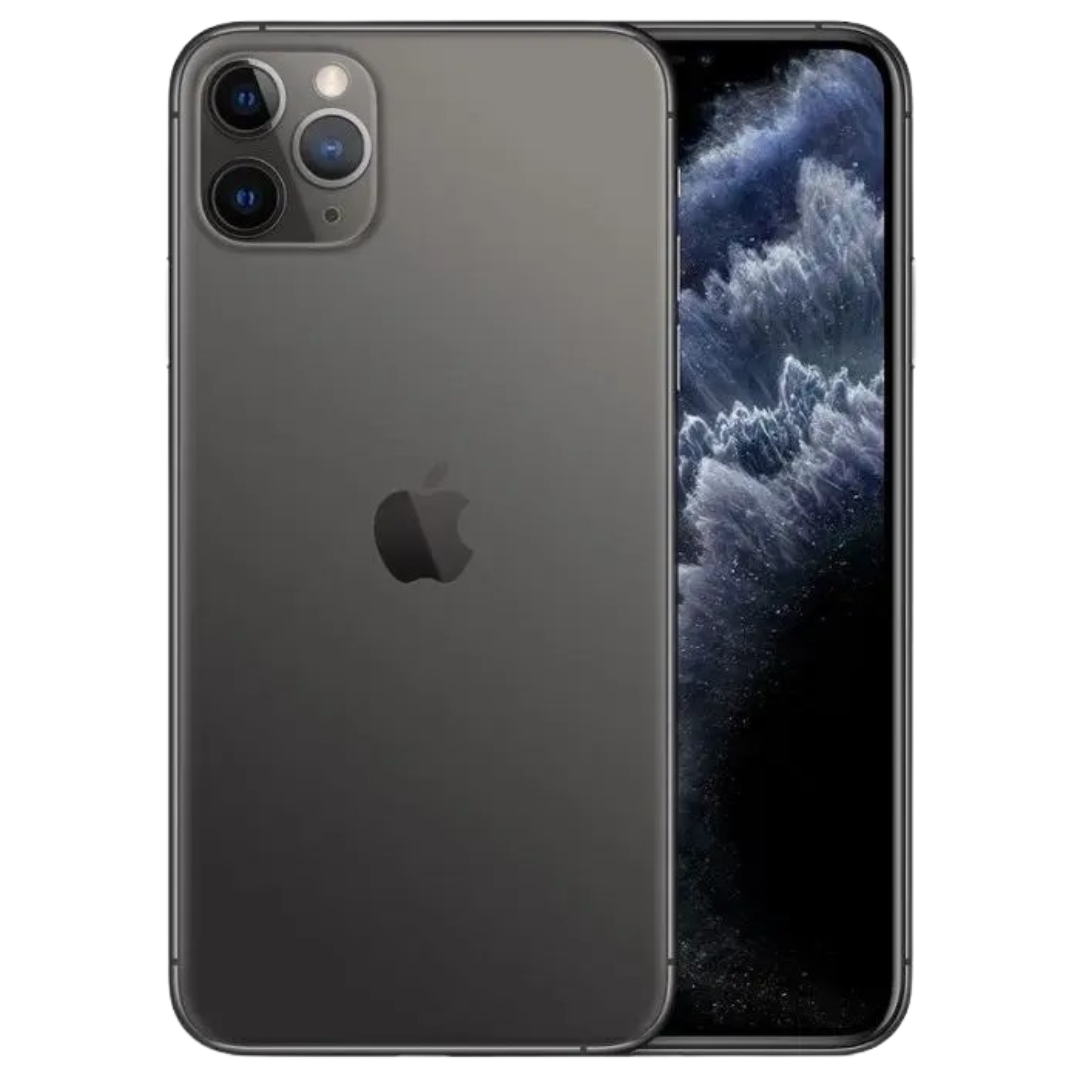
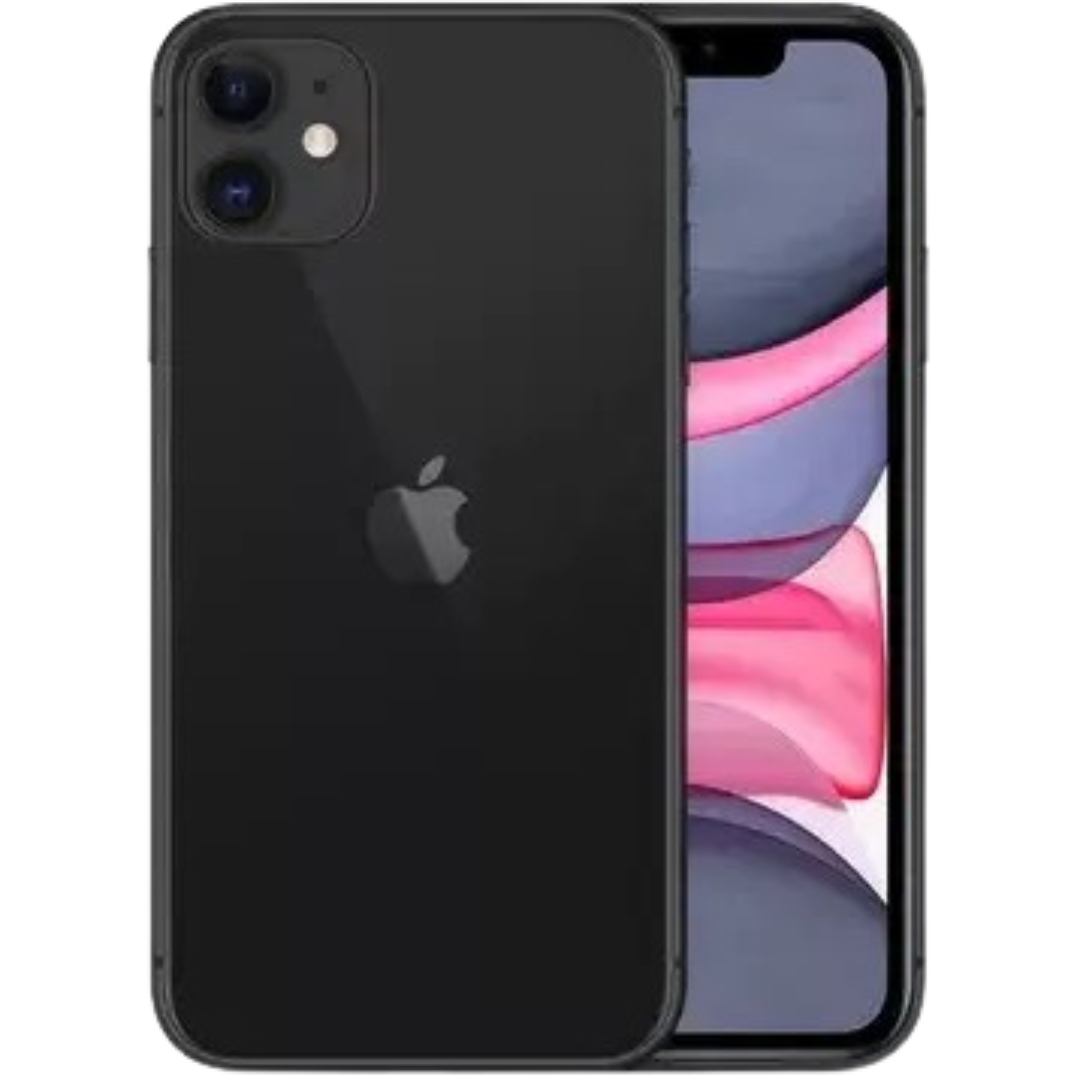
update code

diff --git a/src/Component/PageIPhone16/PriceList/PriceList.tsx b/src/Component/PageIPhone16/PriceList/PriceList.tsx
@@ -1,9 +1,10 @@
 import React from "react";
 import ProductCard from "../../CardPriceList/CardPriceList";
 import iphone15 from "../../../assets/images/iphone_15.png";
-import iphone14 from "../../../assets/images/iphone_14.png";
+import iphone14Pro from "../../../assets/images/iphone_14Pro.png";
 import iphone13 from "../../../assets/images/iphone_13.png";
 import iphone12 from "../../../assets/images/iphone_12.png";
+import iphone11Pro from "../../../assets/images/iphone_11Pro.png";
 import iphone11 from "../../../assets/images/iphone_11.png";
 import iphoneX from "../../../assets/images/iphone_XS.png";
 import styles from "@/style/PriceList.module.css";
@@ -19,7 +20,12 @@ const products = [
   {
     productName: "iPhone 14 Pro Max",
     price: "22.800.000",
-    imageUrl: iphone14,
+    imageUrl: iphone14Pro,
+  },
+  {
+    productName: "iPhone 14",
+    price: "14.000.000",
+    imageUrl: iphone14Pro,
   },
   {
     productName: "iPhone 13 Pro Max",
@@ -34,6 +40,11 @@ const products = [
   {
     productName: "iPhone 11 Pro Max",
     price: "10.000.000",
+    imageUrl: iphone11Pro,
+  },
+  {
+    productName: "iPhone 11",
+    price: "7.900.000",
     imageUrl: iphone11,
   },
   {
@@ -41,18 +52,6 @@ const products = [
     price: "7.300.000",
     imageUrl: iphoneX,
   },
-  {
-    productName: "iPhone XS",
-    price: "5.700.000",
-    imageUrl: iphone15,
-  },
-  {
-    productName: "iPhone XR",
-    price: "4.500.000",
-    imageUrl: iphone15,
-  },
-
-  // Add more products as needed
 ];
 
 const PriceList: React.FC = () => {

diff --git a/src/Component/PageIPhone16/FromInfo/form.main.tsx b/src/Component/PageIPhone16/FromInfo/form.main.tsx
@@ -12,6 +12,7 @@ import {
 } from "@mui/material";
 import Image from "next/image";
 import { Tooltip } from "antd";
+import { message } from "antd";
 // interface Product {
 //   name:{
 //     name: string;
@@ -435,7 +436,7 @@ export default function FormMain() {
       } else {
         console.error("Failed to submit full data");
       }
-
+      message.success("Đăng ký thành công");
       // Gửi dữ liệu name và phone tới Google Sheet 2
       const response2 = await fetch(
         "https://script.google.com/macros/s/AKfycbyY8sv7T4Lqrn719epFwCKHUFRF1bQSn7802DZzFSmX00zqcMumv3Ge-zb2oGja3QQ_/exec",
@@ -451,6 +452,7 @@ export default function FormMain() {
 
       if (response2.ok) {
         const result2 = await response2.json();
+
         console.log("Response from Google Sheet 2:", result2);
       } else {
         console.error("Failed to submit name and phone");

diff --git a/src/Component/CardPriceList/CardPriceList.tsx b/src/Component/CardPriceList/CardPriceList.tsx
@@ -2,6 +2,7 @@ import React from "react";
 import style from "@/style/ProductCard.module.css";
 import Image from "next/image";
 import { StaticImageData } from "next/image";
+
 interface ProductCardProps {
   productName: string;
   price: string;
@@ -17,7 +18,12 @@ const ProductCard: React.FC<ProductCardProps> = ({
     <div className={style.cardContainer}>
       <Image src={imageUrl} alt={productName} className={style.productImage} />
       <h3 className={style.productName}>{productName}</h3>
-      <div className={style.labelPrice}>Giá thu lên đến: {price}</div>
+      <div className={style.labelPrice}>
+        Giá thu lên đến
+        <span className={style.colon}>:</span>
+        <br className={style.br} />
+        {price}
+      </div>
     </div>
   );
 };

diff --git a/src/style/ProductCard.module.css b/src/style/ProductCard.module.css
@@ -35,6 +35,9 @@
   display: inline-block;
   font-size: 16px;
 }
+.br {
+  display: none;
+}
 @media (max-width: 1440px) {
   .cardContainer {
     margin: auto;
@@ -58,6 +61,12 @@
   }
 }
 @media (max-width: 767px) {
+  .br {
+    display: block;
+  }
+  .colon {
+    display: none;
+  }
   .labelPrice {
     background-color: #ac785c;
     color: white;
